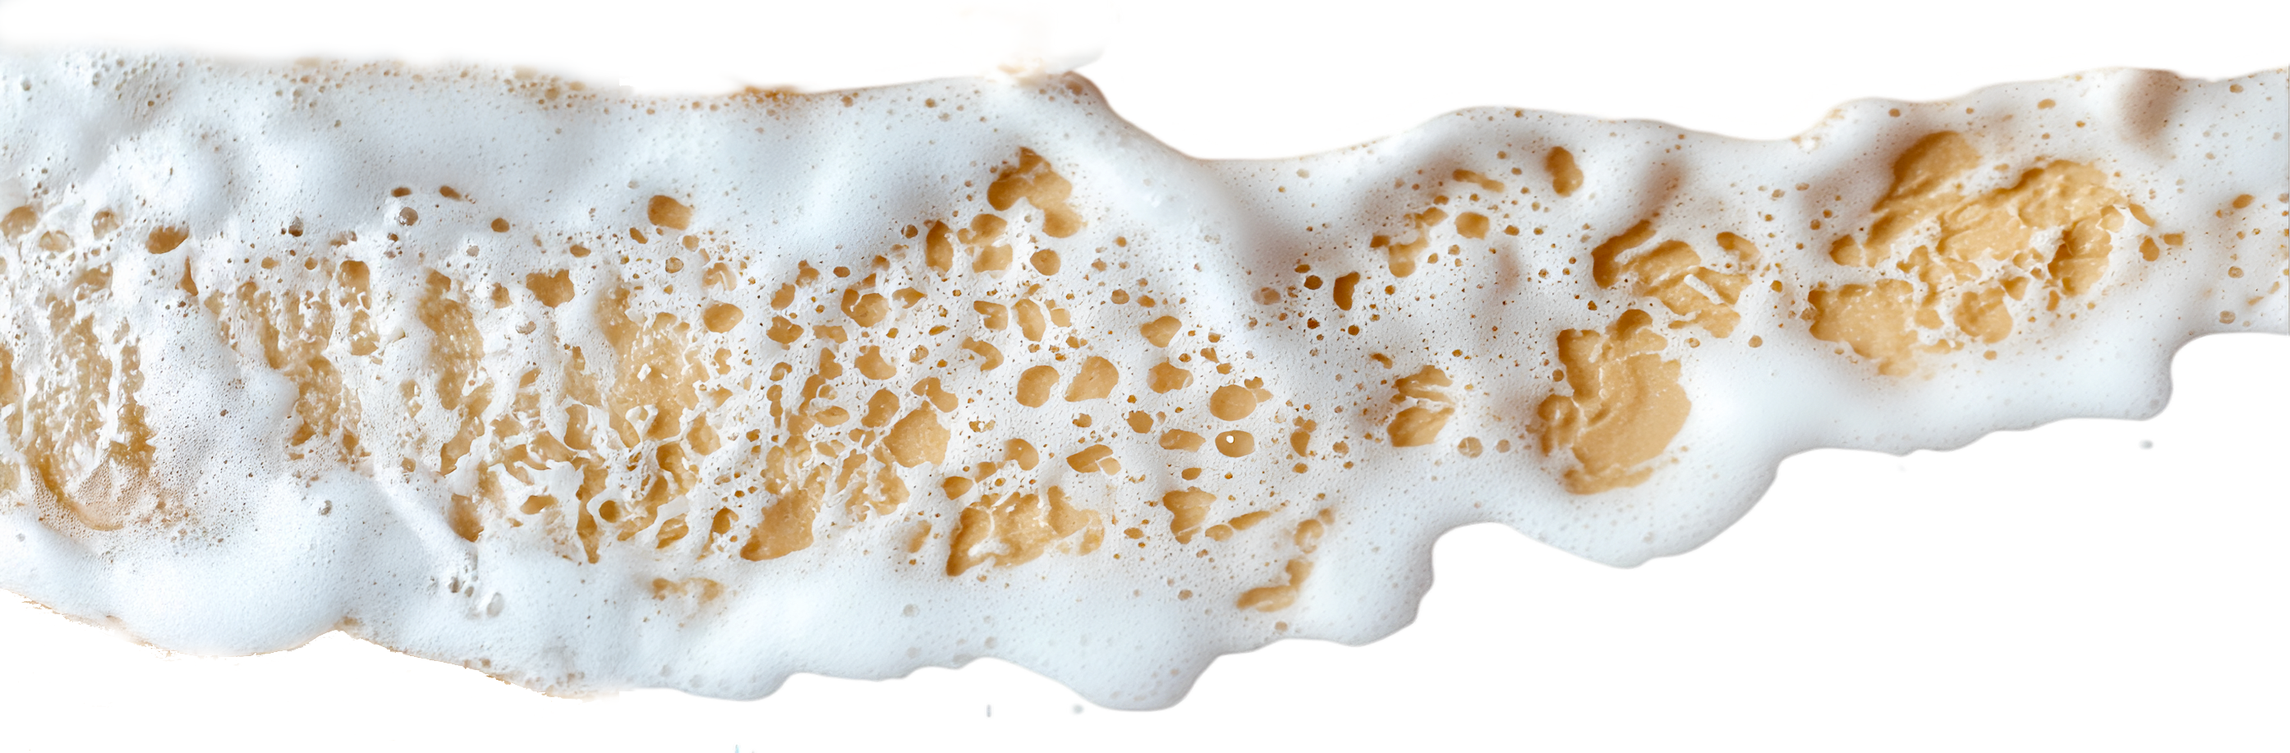
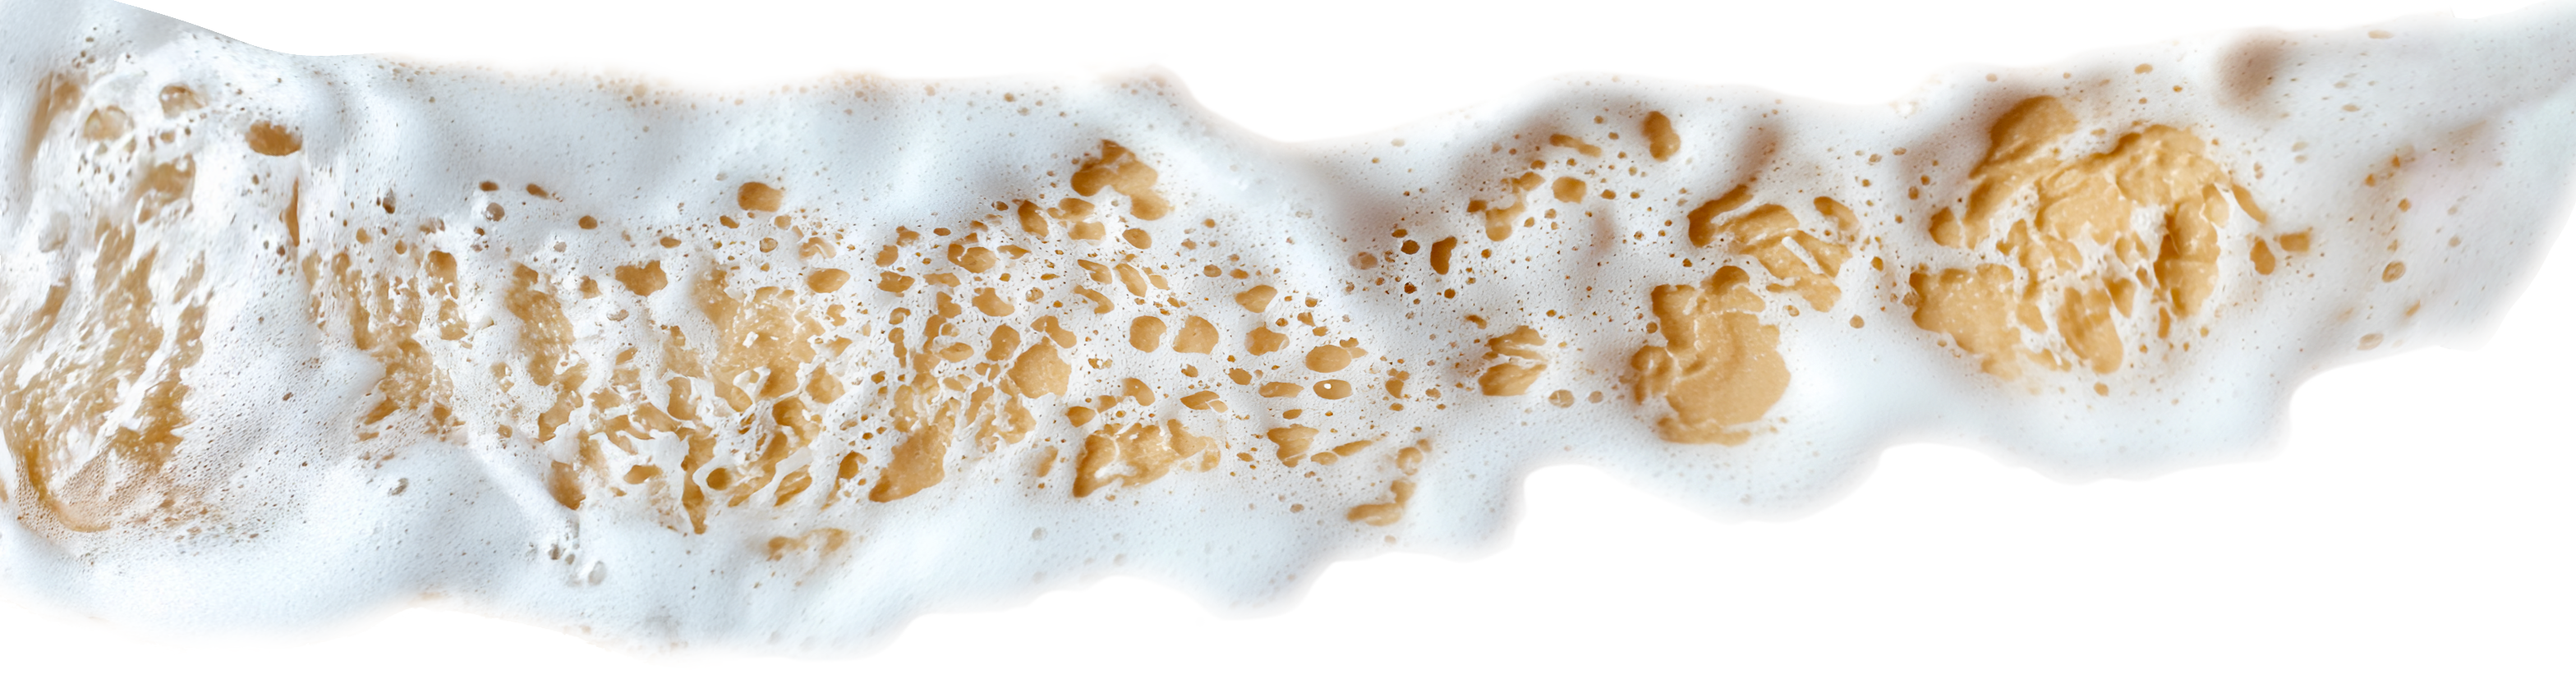
제품 배경 이미지 추가 및 스타일 수정

diff --git a/index.html b/index.html
@@ -151,6 +151,7 @@
         </div>
         <div class="sec2-mid">
             <img class="pro2-1" src="images/img_2.png" alt="">
+            <img class="product-bg2" src="images/product-bg2.png" alt="">
             <div class="Xbox2"></div>
             <div class="mid2-txt">
                 <div class="mid-t1">

diff --git a/style.css b/style.css
@@ -361,7 +361,6 @@ em {
 
 .product-bg2 {
     width: 100%;
-    height: 738px;
     bottom: 10%;
     left: 0px;
     position: absolute;
